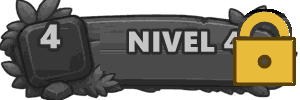
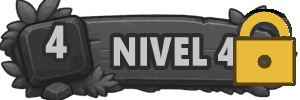
Unifico el tamanio de letra de todos los carteles

Changed region(s): [[0.36, 0.27, 0.81, 0.72], [0.12, 0.21, 0.24, 0.6]]

diff --git a/EXPLICACION.md b/EXPLICACION.md
@@ -109,7 +109,16 @@ El mapa es una lista de strings. Cada carácter representa algo:
 
 `partida.armar()` calcula el tamaño del mapa, lo centra dentro del tablero y recorre cada fila y columna. Para cada carácter llama a `ubicar(letra, posicion)`, que decide qué objeto debe configurarse en esa celda.
 
-Por cada carácter se crea el elemento que corresponde con `new`: `new Valla(...)` para un `#`, `new Cruz(...)` para una cruz, `new Espinas(...)`, `new Escalera(...)`, `new Vidrio(...)` y así con el resto. Las semillas no se crean: ya existen las tres y solo se les cambia la posición.
+`ubicar` **no compara la letra**: la busca en un diccionario. Cada letra tiene asociado un
+**ubicador**, un objeto que sabe qué poner en esa celda —`ubicadorDeValla` hace `new Valla(...)`,
+`ubicadorDeAgujero` llama a `ponerAgujero`, y así—. Si la letra no está en el diccionario,
+`getOrElse` devuelve `ubicadorVacio`, que no hace nada: por eso los espacios del mapa no necesitan
+ningún caso especial.
+
+Antes esto eran dieciocho `if` seguidos comparando la letra, uno por cada cosa que puede haber en el
+tablero. El diccionario se arma una sola vez, en el `initialize()` de `partida`.
+
+Las semillas no se crean: ya existen las tres y solo se les cambia la posición.
 
 Los agujeros de topo son el único caso que necesita algo más: se emparejan de a dos en el orden en que aparecen en el mapa. `partida` guarda en `agujerosSinPareja` el que todavía está esperando, y cuando aparece el siguiente los conecta entre sí.
 
@@ -373,6 +382,21 @@ La lista `niveles` mantiene la relación entre el número elegido y el nivel que
 `desbloquearSiguienteA(nivel)` es lo que corre al ganar: busca con `filter` el nivel cuyo número es uno más que el recién completado y lo agrega a `nivelesDesbloqueados`. Si no existe —por ejemplo al ganar el último— el filter no encuentra nada y no pasa nada.
 
 Esa lista es el **único lugar** donde vive el avance del jugador. El cartel de cada nivel (`BotonDeNivel`) tampoco lo sabe por su cuenta: le pregunta al selector con `estaDesbloqueado(nivel)` y según eso elige entre el cartel de madera y el gris con candado.
+
+### `pantallas/configuracion.wlk`
+
+La pantalla de sonido: dos barras de diez segmentos (general y ambiente) y dos indicadores de
+encendido/silencio.
+
+Lo importante del diseño está en `canalGeneral` y `canalAmbiente`. Antes los segmentos recibían el
+nombre del canal como texto y lo comparaban (`if (canal == "general")`), que es justamente lo que hay
+que evitar: comparar un string para decidir comportamiento. Ahora **cada canal es un objeto** que sabe
+responder por lo suyo —si está silenciado, si un segmento está encendido, y cómo alternar su
+silencio— así que ni el segmento ni el indicador tienen que preguntar de cuál se trata.
+
+Las teclas `1` y `2` tampoco se comparan: hay un diccionario `canalesPorTecla` que las asocia a su
+canal, con `sinCanal` como respuesta para cualquier otra tecla. Es el mismo recurso que usa el mapa
+con sus letras.
 
 ### `pantallas/navegador.wlk`
 
